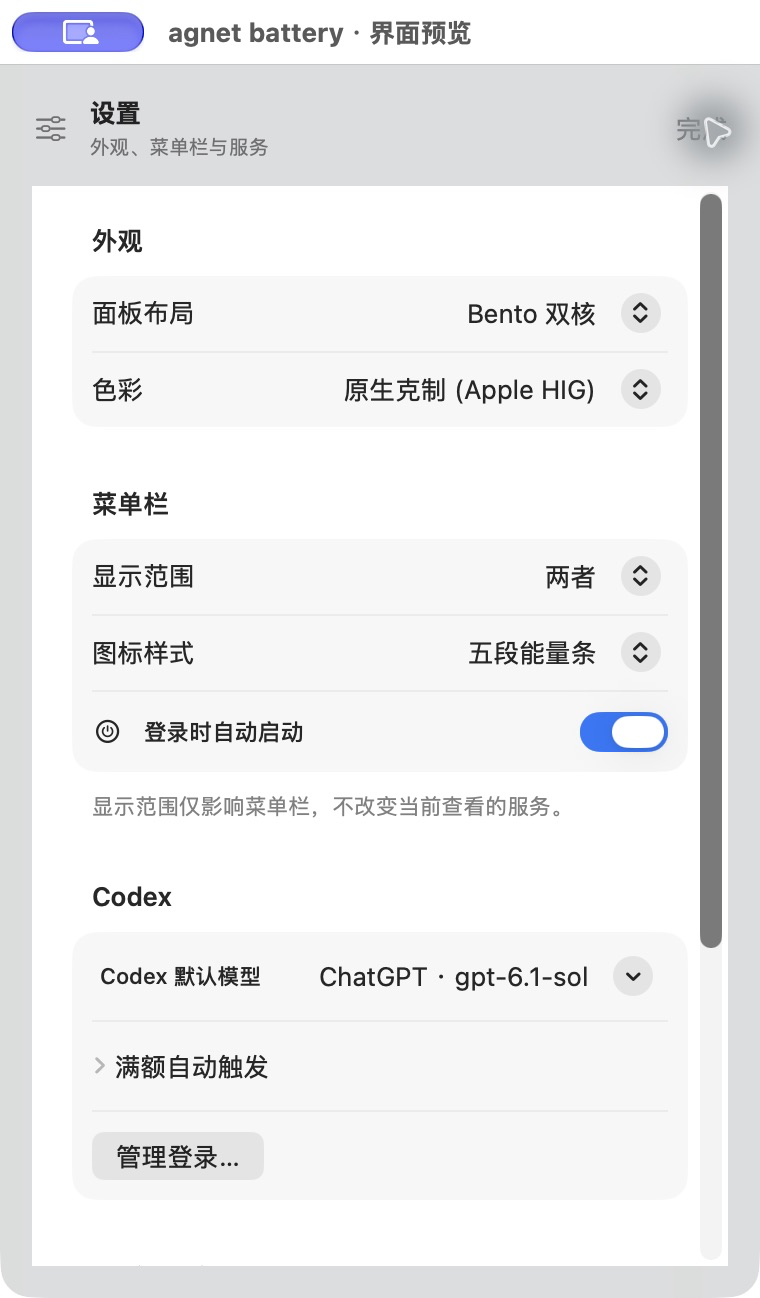
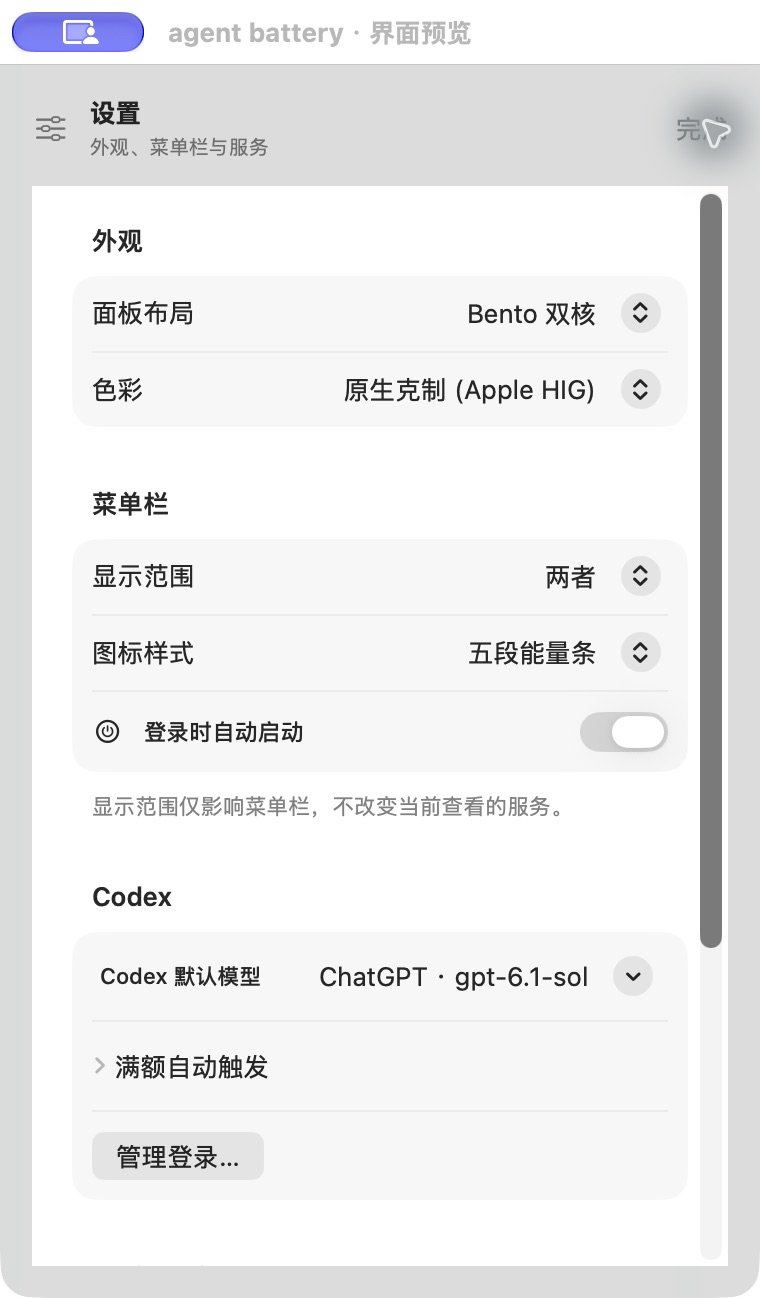
Correct project name to agent battery and release 2.1.3

diff --git a/Sources/App.swift b/Sources/App.swift
@@ -97,7 +97,7 @@ import SwiftUI
             let menu = NSMenu()
             let refresh = NSMenuItem(title: "立即刷新", action: #selector(refresh), keyEquivalent: "r"); refresh.target = self
             menu.addItem(refresh); menu.addItem(.separator())
-            let quit = NSMenuItem(title: "退出 agnet battery", action: #selector(quit), keyEquivalent: "q"); quit.target = self
+            let quit = NSMenuItem(title: "退出 agent battery", action: #selector(quit), keyEquivalent: "q"); quit.target = self
             menu.addItem(quit)
             status.menu = menu; status.button?.performClick(nil); status.menu = nil
         } else if popover.isShown { popover.performClose(nil) }
@@ -138,7 +138,7 @@ import SwiftUI
             app.appearance = NSAppearance(named: CommandLine.arguments.contains("--dark") ? .darkAqua : .aqua)
             let window = NSWindow(contentRect: NSRect(x: 0, y: 0, width: 380, height: 440),
                                   styleMask: [.titled, .closable], backing: .buffered, defer: false)
-            window.title = "agnet battery · 界面预览"
+            window.title = "agent battery · 界面预览"
             window.contentViewController = NSHostingController(rootView: QuotaPanel(store: QuotaStore(), ag: AGStore()))
             window.center()
             window.makeKeyAndOrderFront(nil)

diff --git a/Sources/Panel.swift b/Sources/Panel.swift
@@ -503,7 +503,7 @@ struct QuotaPanel: View {
             Image(systemName: showSettings ? "slider.horizontal.3" : "battery.75percent")
                 .font(.title3).foregroundStyle(.secondary)
             VStack(alignment: .leading, spacing: 3) {
-                Text(showSettings ? "设置" : "agnet battery").font(.headline)
+                Text(showSettings ? "设置" : "agent battery").font(.headline)
                 Text(showSettings ? "外观、菜单栏与服务" : "查看 AI 服务可用额度")
                     .font(.caption).foregroundStyle(.secondary)
             }
@@ -1703,7 +1703,7 @@ struct QuotaPanel: View {
                         .fixedSize(horizontal: false, vertical: true)
                 }
                 HStack {
-                    Text("agnet battery " + (Bundle.main.infoDictionary?["CFBundleShortVersionString"] as? String ?? ""))
+                    Text("agent battery " + (Bundle.main.infoDictionary?["CFBundleShortVersionString"] as? String ?? ""))
                         .font(.caption).foregroundStyle(.secondary)
                     Spacer()
                     Button("退出") { NSApp.terminate(nil) }.keyboardShortcut("q", modifiers: .command)

diff --git a/Sources/ModelSource.swift b/Sources/ModelSource.swift
@@ -64,7 +64,7 @@ struct ModelSourceRow: View {
     private func promptForKey() -> String? {
         let alert = NSAlert()
         alert.messageText = "DeepSeek API Key"
-        alert.informativeText = "输入 DeepSeek API Key。agnet battery 会将它存入 macOS 钥匙串。"
+        alert.informativeText = "输入 DeepSeek API Key。agent battery 会将它存入 macOS 钥匙串。"
         let field = NSSecureTextField(frame: NSRect(x: 0, y: 0, width: 280, height: 24))
         field.placeholderString = "sk-…"
         alert.accessoryView = field
@@ -114,7 +114,7 @@ struct ModelSourceRow: View {
 
     nonisolated private static func invoke(_ action: String, codex: URL?, key: String?) throws -> (code: Int32, text: String) {
         guard let helper = Bundle.main.url(forResource: "switcher", withExtension: "py", subdirectory: "ModelSwitcher") else {
-            throw ModelSourceError("找不到模型切换组件，请重新构建 agnet battery。")
+            throw ModelSourceError("找不到模型切换组件，请重新构建 agent battery。")
         }
         let process = Process()
         process.executableURL = URL(fileURLWithPath: "/usr/bin/env")

diff --git a/Sources/Store.swift b/Sources/Store.swift
@@ -99,7 +99,7 @@ import ServiceManagement
             if launchAtLogin { try SMAppService.mainApp.unregister() }
             else { try SMAppService.mainApp.register() }
             launchAtLogin = SMAppService.mainApp.status == .enabled
-            if SMAppService.mainApp.status == .requiresApproval { settingsError = "请在系统设置 → 通用 → 登录项中允许 agnet battery。" }
+            if SMAppService.mainApp.status == .requiresApproval { settingsError = "请在系统设置 → 通用 → 登录项中允许 agent battery。" }
         } catch { settingsError = "未能更改登录项：\(error.localizedDescription)" }
     }
     func selectExecutable() {

diff --git a/Sources/Quota.swift b/Sources/Quota.swift
@@ -100,7 +100,7 @@ struct QuotaClient {
             data.append(10)
             try input.fileHandleForWriting.write(contentsOf: data)
         }
-        try send(["id": 1, "method": "initialize", "params": ["clientInfo": ["name": "codex_battery", "title": "agnet battery", "version": "1.1.2"]]])
+        try send(["id": 1, "method": "initialize", "params": ["clientInfo": ["name": "codex_battery", "title": "agent battery", "version": "1.1.2"]]])
         var buffer = Data()
         while Date() < deadline {
             // Poll instead of blocking in availableData: a hung child cannot hold loading=true forever.
